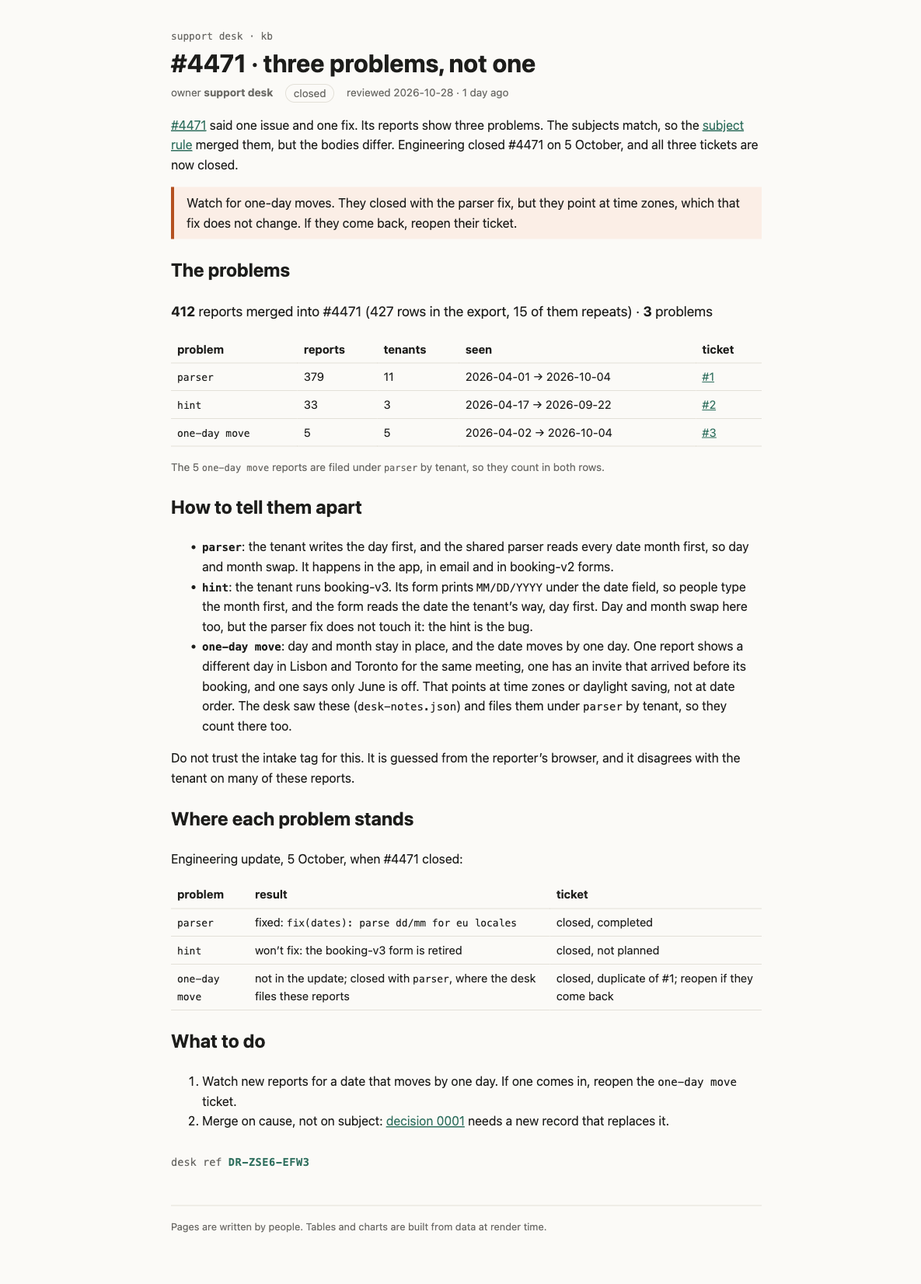
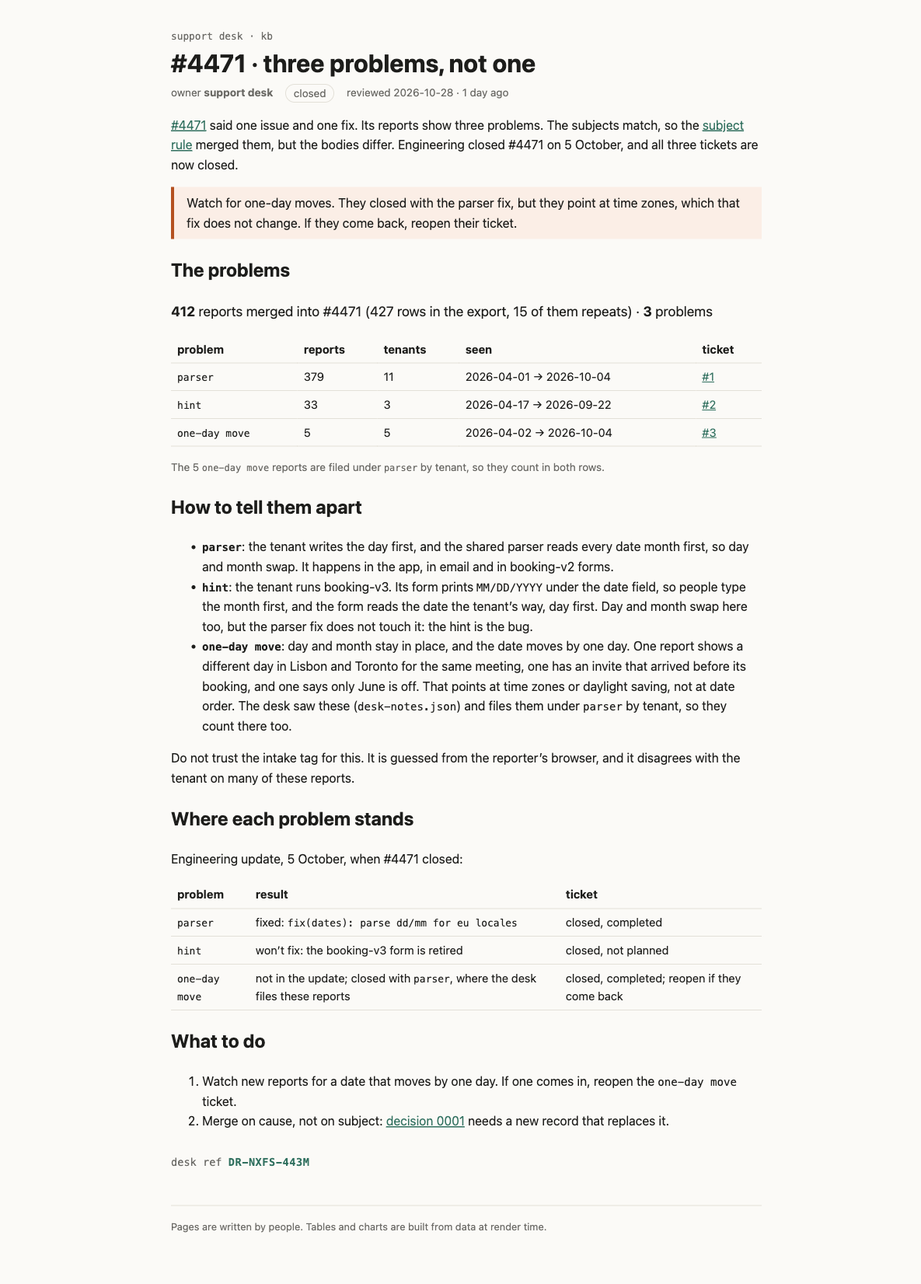
Sign the page with the course ticket

Changed region(s): [[0.281, 0.6792, 0.562, 0.8027], [0.5932, 0.6792, 0.8118, 0.8027], [0.3122, 0.8953, 0.3435, 0.9262]]

diff --git a/rendered/site/_app/immutable/chunks/D8PjzvQu.js b/rendered/site/_app/immutable/chunks/D8PjzvQu.js
@@ -1,0 +1,11 @@
+import{t as e}from"./DK3Fl9T5.js";import{E as t,F as n,H as r,I as i,K as a,L as o,N as s,O as c,R as l,S as u,T as d,U as f,W as p,_ as m,c as h,h as g,k as _,n as v,q as y,r as b,t as x,w as S}from"./BCPXOG7W.js";import{t as C}from"./DZiXShyB.js";import{n as w,t as T}from"./CVBzP17p.js";import{i as E,l as D,r as O,t as k}from"./BIy4WKJS.js";var A=[`parser`,`hint`,`one-day move`,`unplaced`];function j(e,t,n){let r=E(e,t)??`unplaced`;return n.includes(e.id)?[r,`one-day move`]:[r]}function M(e,t,n,r){let i=D(e).filter(e=>e.mergedInto===t);return{merged:i,groups:A.map(e=>{let t=i.filter(t=>j(t,n(t),r).includes(e)),a=t.map(e=>e.receivedAt.slice(0,10)).sort();return{problem:e,reports:t,alsoIn:[...new Set(t.flatMap(e=>j(e,n(e),r)))].filter(t=>t!==e),tenants:new Set(t.map(e=>e.tenant)).size,firstSeen:a[0],lastSeen:a[a.length-1]}}).filter(e=>e.reports.length>0)}}var N=t(`<a> </a>`),P=t(`<tr><td><code> </code></td><td> </td><td> </td><td> </td><td><!></td></tr>`),F=t(`<p class="note svelte-1op6c6"> <code> </code> reports are filed under <code> </code> by tenant, so they count in both rows.</p>`),I=t(`<p class="sum svelte-1op6c6"><strong> </strong> <strong> </strong> problems</p> <table><thead><tr><th>problem</th><th>reports</th><th>tenants</th><th>seen</th><th>ticket</th></tr></thead><tbody></tbody></table> <!>`,1);function L(e,t){p(t,!0);let b=v(t,`tickets`,19,()=>({})),x=r(()=>M(w,t.ticket,O,T.oneDayMove)),C=w.length,E=e=>e.replace(/.*\/issues\//,`#`);var D=I(),k=i(D),A=n(k),j=o(A,!0),L=l(A),R=l(L),z=o(R,!0);a(),y(k);var B=l(k,2),V=l(n(B));g(V,21,()=>_(x).groups,e=>e.problem,(e,t)=>{var r=P(),i=n(r),a=n(i),d=o(a,!0);y(i);var f=l(i),p=o(f,!0),g=l(f),v=o(g,!0),x=l(g),C=o(x),w=l(x),T=n(w),D=e=>{var n=N(),r=o(n,!0);s(e=>{h(n,`href`,b()[_(t).problem]),u(r,e)},[()=>E(b()[_(t).problem])]),S(e,n)},O=e=>{var t=c(`none yet`);S(e,t)};m(T,e=>{b()[_(t).problem]?e(D):e(O,-1)}),y(w),y(r),s(()=>{u(d,_(t).problem),u(p,_(t).reports.length),u(v,_(t).tenants),u(C,`${_(t).firstSeen??``} → ${_(t).lastSeen??``}`)}),S(e,r)}),y(V),y(B);var H=l(B,2);g(H,17,()=>_(x).groups,e=>e.problem,(e,t)=>{var c=d(),f=i(c);g(f,16,()=>_(t).alsoIn,e=>e,(e,c)=>{let f=r(()=>_(t).reports.filter(e=>_(x).groups.find(e=>e.problem===c)?.reports.includes(e)).length);var p=d(),h=i(p),g=e=>{var r=F(),i=n(r),d=l(i),p=o(d,!0),m=l(d,2),h=o(m,!0);a(),y(r),s(()=>{u(i,`The ${_(f)??``} `),u(p,_(t).problem),u(h,c)}),S(e,r)};m(h,e=>{_(t).problem===`one-day move`&&e(g)}),S(e,p)}),S(e,c)}),s(()=>{u(j,_(x).merged.length),u(L,` reports merged into #${t.ticket??``} (${C??``} rows in the export, ${C-_(x).merged.length} of them repeats) · `),u(z,_(x).groups.length)}),S(e,D),f()}var R=`0123456789ABCDEFGHJKMNPQRSTVWXYZ`;function z(e,t){let n=t>>>0;for(let t=0;t<e.length;t++)n^=e.charCodeAt(t),n=Math.imul(n,16777619)>>>0;return n}function B(e){let t=e.trim(),n=z(t,2166136261),r=z(t,2654435769),i=BigInt(n)<<8n|BigInt(r&255),a=``;for(let e=0;e<8;e++)a=R[Number(i&31n)]+a,i>>=5n;return`DR-${a.slice(0,4)}-${a.slice(4)}`}var V=t(`<p class="stamp svelte-1280m42">desk ref <b class="svelte-1280m42"> </b></p>`),H=t(`<p class="stamp missing svelte-1280m42">no desk ref: this page isn't signed (no <code>signature</code> in its frontmatter)</p>`);function U(e,t){p(t,!0);let a=r(()=>t.signature?B(t.signature):null);var c=d(),h=i(c),g=e=>{var t=V(),r=l(n(t)),i=o(r,!0);y(t),s(()=>u(i,_(a))),S(e,t)},v=e=>{var t=H();S(e,t)};m(h,e=>{_(a)?e(g):e(v,-1)}),S(e,c),f()}var W=e({default:()=>$,metadata:()=>G}),G={layout:`runbook`,title:`#4471 · three problems, not one`,owner:`support desk`,status:`closed`,reviewed:`2026-10-28T00:00:00.000Z`,signature:`v1.eyJzdWIiOiIxMjY0IiwiYXVkIjoiY2hhbGxlbmdlOndoYXQtaXQtc2hvd3MiLCJpYXQiOjE3OTMyNDA4NjMsImV4cCI6MTc5MzMyNzI2M30.nQOeUUJNOGeJvF1z5ycj1iKOyH2s22RATAlWIqq-3lM`},{layout:K,title:q,owner:J,status:Y,reviewed:X,signature:Z}=G,Q=t(`<p><a href="/kb/incidents/4471">#4471</a> said one issue and one fix. Its reports show three problems. The
+subjects match, so the <a href="/kb/triage/dedupe">subject rule</a> merged them, but the bodies differ.
+Engineering closed #4471 on 5 October, and all three tickets are now closed.</p> <!> <h2>The problems</h2> <!> <h2>How to tell them apart</h2> <ul><li><strong><code>parser</code></strong>: the tenant writes the day first, and the shared parser reads every date month
+first, so day and month swap. It happens in the app, in email and in booking-v2 forms.</li> <li><strong><code>hint</code></strong>: the tenant runs booking-v3. Its form prints <code>MM/DD/YYYY</code> under the date field, so
+people type the month first, and the form reads the date the tenant’s way, day first. Day and
+month swap here too, but the parser fix does not touch it: the hint is the bug.</li> <li><strong><code>one-day move</code></strong>: day and month stay in place, and the date moves by one day. One report
+shows a different day in Lisbon and Toronto for the same meeting, one has an invite that
+arrived before its booking, and one says only June is off. That points at time zones or
+daylight saving, not at date order. The desk saw these
+(<code>desk-notes.json</code>) and files them under <code>parser</code> by tenant, so they count there too.</li></ul> <p>Do not trust the intake tag for this. It is guessed from the reporter’s browser, and
+it disagrees with the tenant on many of these reports.</p> <h2>Where each problem stands</h2> <p>Engineering update, 5 October, when #4471 closed:</p> <table><thead><tr><th>problem</th><th>result</th><th>ticket</th></tr></thead><tbody><tr><td><code>parser</code></td><td>fixed: <code>fix(dates): parse dd/mm for eu locales</code></td><td>closed, completed</td></tr><tr><td><code>hint</code></td><td>won’t fix: the booking-v3 form is retired</td><td>closed, not planned</td></tr><tr><td><code>one-day move</code></td><td>not in the update; closed with <code>parser</code>, where the desk files these reports</td><td>closed, completed; reopen if they come back</td></tr></tbody></table> <h2>What to do</h2> <ol><li>Watch new reports for a date that moves by one day. If one comes in, reopen the <code>one-day move</code> ticket.</li> <li>Merge on cause, not on subject: <a href="/kb/decisions/0001-dedupe-by-subject">decision 0001</a> needs a new record that replaces it.</li></ol> <!>`,1);function $(e,t){let n=x(t,[`children`,`$$slots`,`$$events`,`$$legacy`]),r={parser:`https://github.com/hd4ng/support-kb-4471/issues/1`,hint:`https://github.com/hd4ng/support-kb-4471/issues/2`,"one-day move":`https://github.com/hd4ng/support-kb-4471/issues/3`};C(e,b(()=>n,()=>G,{children:(e,t)=>{var n=Q(),o=l(i(n),2);k(o,{kind:`warn`,children:(e,t)=>{a();var n=c(`Watch for one-day moves. They closed with the parser fix, but they point at time zones, which that fix does not change. If they come back, reopen their ticket.`);S(e,n)},$$slots:{default:!0}});var s=l(o,4);L(s,{ticket:4471,get tickets(){return r}}),U(l(s,18),{get signature(){return Z}}),S(e,n)},$$slots:{default:!0}}))}export{$ as n,W as t};

diff --git a/rendered/problems.html b/rendered/problems.html
@@ -6,11 +6,11 @@
 		<link href="../../../_app/immutable/chunks/B2Ul7l_u.js" rel="modulepreload">
 		<link href="../../../_app/immutable/chunks/BCPXOG7W.js" rel="modulepreload">
 		<link href="../../../_app/immutable/chunks/Dh1V97Jm.js" rel="modulepreload">
-		<link href="../../../_app/immutable/entry/app.B5hx-1tA.js" rel="modulepreload">
+		<link href="../../../_app/immutable/entry/app.BqhGF1EF.js" rel="modulepreload">
 		<link href="../../../_app/immutable/nodes/0.C9KfiiPz.js" rel="modulepreload">
 		<link href="../../../_app/immutable/chunks/DK3Fl9T5.js" rel="modulepreload">
-		<link href="../../../_app/immutable/nodes/5.CmG21ZDs.js" rel="modulepreload">
-		<link href="../../../_app/immutable/chunks/EmqgVGvN.js" rel="modulepreload">
+		<link href="../../../_app/immutable/nodes/5.BDPCEGiR.js" rel="modulepreload">
+		<link href="../../../_app/immutable/chunks/D8PjzvQu.js" rel="modulepreload">
 		<link href="../../../_app/immutable/chunks/DZiXShyB.js" rel="modulepreload">
 		<link href="../../../_app/immutable/chunks/CVBzP17p.js" rel="modulepreload">
 		<link href="../../../_app/immutable/chunks/BIy4WKJS.js" rel="modulepreload">
@@ -28,20 +28,20 @@ shows a different day in Lisbon and Toronto for the same meeting, one has an inv
 arrived before its booking, and one says only June is off. That points at time zones or
 daylight saving, not at date order. The desk saw these
 (<code>desk-notes.json</code>) and files them under <code>parser</code> by tenant, so they count there too.</li></ul> <p>Do not trust the intake tag for this. It is guessed from the reporter’s browser, and
-it disagrees with the tenant on many of these reports.</p> <h2>Where each problem stands</h2> <p>Engineering update, 5 October, when #4471 closed:</p> <table><thead><tr><th>problem</th><th>result</th><th>ticket</th></tr></thead><tbody><tr><td><code>parser</code></td><td>fixed: <code>fix(dates): parse dd/mm for eu locales</code></td><td>closed, completed</td></tr><tr><td><code>hint</code></td><td>won’t fix: the booking-v3 form is retired</td><td>closed, not planned</td></tr><tr><td><code>one-day move</code></td><td>not in the update; closed with <code>parser</code>, where the desk files these reports</td><td>closed, duplicate of #1; reopen if they come back</td></tr></tbody></table> <h2>What to do</h2> <ol><li>Watch new reports for a date that moves by one day. If one comes in, reopen the <code>one-day move</code> ticket.</li> <li>Merge on cause, not on subject: <a href="/kb/decisions/0001-dedupe-by-subject">decision 0001</a> needs a new record that replaces it.</li></ol> <!--[0--><p class="stamp svelte-1280m42">desk ref <b class="svelte-1280m42">DR-ZSE6-EFW3</b></p><!--]--><!----><!----></main> <footer class="svelte-e2jw2j">Pages are written by people. Tables and charts are built from data at render time.</footer></div><!--]--><!--]--><!--]--><!----><!--]--><!--]--><!--]--><!----> <!--[-1--><!--]--><!--]-->
+it disagrees with the tenant on many of these reports.</p> <h2>Where each problem stands</h2> <p>Engineering update, 5 October, when #4471 closed:</p> <table><thead><tr><th>problem</th><th>result</th><th>ticket</th></tr></thead><tbody><tr><td><code>parser</code></td><td>fixed: <code>fix(dates): parse dd/mm for eu locales</code></td><td>closed, completed</td></tr><tr><td><code>hint</code></td><td>won’t fix: the booking-v3 form is retired</td><td>closed, not planned</td></tr><tr><td><code>one-day move</code></td><td>not in the update; closed with <code>parser</code>, where the desk files these reports</td><td>closed, completed; reopen if they come back</td></tr></tbody></table> <h2>What to do</h2> <ol><li>Watch new reports for a date that moves by one day. If one comes in, reopen the <code>one-day move</code> ticket.</li> <li>Merge on cause, not on subject: <a href="/kb/decisions/0001-dedupe-by-subject">decision 0001</a> needs a new record that replaces it.</li></ol> <!--[0--><p class="stamp svelte-1280m42">desk ref <b class="svelte-1280m42">DR-NXFS-443M</b></p><!--]--><!----><!----></main> <footer class="svelte-e2jw2j">Pages are written by people. Tables and charts are built from data at render time.</footer></div><!--]--><!--]--><!--]--><!----><!--]--><!--]--><!--]--><!----> <!--[-1--><!--]--><!--]-->
 			
 			<script>
 				{
-					__sveltekit_1k2jq9f = {
+					__sveltekit_kxe9o8 = {
 						base: new URL("../../..", location).pathname.slice(0, -1),
-						version: "1793239243878"
+						version: "1793240873902"
 					};
 
 					const element = document.currentScript.parentElement;
 
 					import("../../../_app/immutable/entry/start.CH5w6lId.js").then(async (kit) => {
-						kit.init(__sveltekit_1k2jq9f);
-						const app = await import("../../../_app/immutable/entry/app.B5hx-1tA.js");
+						kit.init(__sveltekit_kxe9o8);
+						const app = await import("../../../_app/immutable/entry/app.BqhGF1EF.js");
 						kit.start(app, element, {
 							node_ids: [0, 5],
 							data: [null,null],

diff --git a/rendered/site/kb/incidents/4471/problems.html b/rendered/site/kb/incidents/4471/problems.html
@@ -6,11 +6,11 @@
 		<link href="../../../_app/immutable/chunks/B2Ul7l_u.js" rel="modulepreload">
 		<link href="../../../_app/immutable/chunks/BCPXOG7W.js" rel="modulepreload">
 		<link href="../../../_app/immutable/chunks/Dh1V97Jm.js" rel="modulepreload">
-		<link href="../../../_app/immutable/entry/app.B5hx-1tA.js" rel="modulepreload">
+		<link href="../../../_app/immutable/entry/app.BqhGF1EF.js" rel="modulepreload">
 		<link href="../../../_app/immutable/nodes/0.C9KfiiPz.js" rel="modulepreload">
 		<link href="../../../_app/immutable/chunks/DK3Fl9T5.js" rel="modulepreload">
-		<link href="../../../_app/immutable/nodes/5.CmG21ZDs.js" rel="modulepreload">
-		<link href="../../../_app/immutable/chunks/EmqgVGvN.js" rel="modulepreload">
+		<link href="../../../_app/immutable/nodes/5.BDPCEGiR.js" rel="modulepreload">
+		<link href="../../../_app/immutable/chunks/D8PjzvQu.js" rel="modulepreload">
 		<link href="../../../_app/immutable/chunks/DZiXShyB.js" rel="modulepreload">
 		<link href="../../../_app/immutable/chunks/CVBzP17p.js" rel="modulepreload">
 		<link href="../../../_app/immutable/chunks/BIy4WKJS.js" rel="modulepreload">
@@ -28,20 +28,20 @@ shows a different day in Lisbon and Toronto for the same meeting, one has an inv
 arrived before its booking, and one says only June is off. That points at time zones or
 daylight saving, not at date order. The desk saw these
 (<code>desk-notes.json</code>) and files them under <code>parser</code> by tenant, so they count there too.</li></ul> <p>Do not trust the intake tag for this. It is guessed from the reporter’s browser, and
-it disagrees with the tenant on many of these reports.</p> <h2>Where each problem stands</h2> <p>Engineering update, 5 October, when #4471 closed:</p> <table><thead><tr><th>problem</th><th>result</th><th>ticket</th></tr></thead><tbody><tr><td><code>parser</code></td><td>fixed: <code>fix(dates): parse dd/mm for eu locales</code></td><td>closed, completed</td></tr><tr><td><code>hint</code></td><td>won’t fix: the booking-v3 form is retired</td><td>closed, not planned</td></tr><tr><td><code>one-day move</code></td><td>not in the update; closed with <code>parser</code>, where the desk files these reports</td><td>closed, duplicate of #1; reopen if they come back</td></tr></tbody></table> <h2>What to do</h2> <ol><li>Watch new reports for a date that moves by one day. If one comes in, reopen the <code>one-day move</code> ticket.</li> <li>Merge on cause, not on subject: <a href="/kb/decisions/0001-dedupe-by-subject">decision 0001</a> needs a new record that replaces it.</li></ol> <!--[0--><p class="stamp svelte-1280m42">desk ref <b class="svelte-1280m42">DR-ZSE6-EFW3</b></p><!--]--><!----><!----></main> <footer class="svelte-e2jw2j">Pages are written by people. Tables and charts are built from data at render time.</footer></div><!--]--><!--]--><!--]--><!----><!--]--><!--]--><!--]--><!----> <!--[-1--><!--]--><!--]-->
+it disagrees with the tenant on many of these reports.</p> <h2>Where each problem stands</h2> <p>Engineering update, 5 October, when #4471 closed:</p> <table><thead><tr><th>problem</th><th>result</th><th>ticket</th></tr></thead><tbody><tr><td><code>parser</code></td><td>fixed: <code>fix(dates): parse dd/mm for eu locales</code></td><td>closed, completed</td></tr><tr><td><code>hint</code></td><td>won’t fix: the booking-v3 form is retired</td><td>closed, not planned</td></tr><tr><td><code>one-day move</code></td><td>not in the update; closed with <code>parser</code>, where the desk files these reports</td><td>closed, completed; reopen if they come back</td></tr></tbody></table> <h2>What to do</h2> <ol><li>Watch new reports for a date that moves by one day. If one comes in, reopen the <code>one-day move</code> ticket.</li> <li>Merge on cause, not on subject: <a href="/kb/decisions/0001-dedupe-by-subject">decision 0001</a> needs a new record that replaces it.</li></ol> <!--[0--><p class="stamp svelte-1280m42">desk ref <b class="svelte-1280m42">DR-NXFS-443M</b></p><!--]--><!----><!----></main> <footer class="svelte-e2jw2j">Pages are written by people. Tables and charts are built from data at render time.</footer></div><!--]--><!--]--><!--]--><!----><!--]--><!--]--><!--]--><!----> <!--[-1--><!--]--><!--]-->
 			
 			<script>
 				{
-					__sveltekit_1k2jq9f = {
+					__sveltekit_kxe9o8 = {
 						base: new URL("../../..", location).pathname.slice(0, -1),
-						version: "1793239243878"
+						version: "1793240873902"
 					};
 
 					const element = document.currentScript.parentElement;
 
 					import("../../../_app/immutable/entry/start.CH5w6lId.js").then(async (kit) => {
-						kit.init(__sveltekit_1k2jq9f);
-						const app = await import("../../../_app/immutable/entry/app.B5hx-1tA.js");
+						kit.init(__sveltekit_kxe9o8);
+						const app = await import("../../../_app/immutable/entry/app.BqhGF1EF.js");
 						kit.start(app, element, {
 							node_ids: [0, 5],
 							data: [null,null],

diff --git a/rendered/site/_app/immutable/nodes/2.0jS1Y7ee.js b/rendered/site/_app/immutable/nodes/2.0jS1Y7ee.js
@@ -1,0 +1,2 @@
+import{E as e,F as t,I as n,K as r,L as i,N as a,R as o,S as s,U as c,W as l,c as u,d,h as f,i as p,k as m,q as h,r as g,t as _,w as v}from"../chunks/BCPXOG7W.js";import{n as y,r as b,t as x}from"../chunks/DZiXShyB.js";import{t as S}from"../chunks/DdxO9zAB.js";import{t as C}from"../chunks/DGwczjly.js";import{t as w}from"../chunks/D8PjzvQu.js";import{t as T}from"../chunks/C3NdmfwS.js";var E=e(`<tr><td><a> </a></td><td> </td><td> </td><td> </td></tr>`),D=e(`<table><thead><tr><th>page</th><th>owner</th><th>status</th><th>reviewed</th></tr></thead><tbody></tbody></table>`);function O(e,n){l(n,!1);let r=Object.entries(Object.assign({"/src/routes/kb/decisions/0001-dedupe-by-subject/+page.svx":S,"/src/routes/kb/incidents/4471/+page.svx":C,"/src/routes/kb/incidents/4471/problems/+page.svx":w,"/src/routes/kb/triage/dedupe/+page.svx":T})).map(([e,t])=>({href:e.replace(`/src/routes`,``).replace(`/+page.svx`,``),...t.metadata})).sort((e,t)=>e.href.localeCompare(t.href));p();var g=D(),_=o(t(g));f(_,5,()=>r,e=>e.href,(e,n)=>{var r=E(),c=t(r),l=t(c),f=i(l,!0);h(c);var p=o(c),g=i(p,!0),_=o(p),x=i(_,!0),S=o(_);let C;var w=i(S,!0);h(r),a((e,t)=>{u(l,`href`,m(n).href),s(f,m(n).title),s(g,m(n).owner),s(x,m(n).status),C=d(S,1,`svelte-tbc1ha`,null,C,{stale:e}),s(w,t)},[()=>y(m(n).reviewed)>180,()=>b(m(n).reviewed)]),v(e,r)}),h(_),h(g),v(e,g),c()}var k={layout:`runbook`,title:`Support knowledge base`,owner:`support desk`,status:`living`,reviewed:`2026-09-28T00:00:00.000Z`},{layout:A,title:j,owner:M,status:N,reviewed:P}=k,F=e(`<p>What the support desk knows, kept next to the code that knows it. One desk, every product: <code>sched-prod</code> (calendar invites for about 300k people) and the rest. When something breaks, the reports land here first.</p> <p>Start with <a href="/kb/triage/dedupe">triage</a> if you are new on the desk.</p> <h2>Pages</h2> <!> <h2>Writing a page</h2> <p>Keep the words here and the logic in <code>src/lib</code>. A number that can be computed should be
+computed by a component, not typed into a paragraph.</p>`,1);function I(e,t){let i=_(t,[`children`,`$$slots`,`$$events`,`$$legacy`]);x(e,g(()=>i,()=>k,{children:(e,t)=>{var i=F();O(o(n(i),6),{}),r(4),v(e,i)},$$slots:{default:!0}}))}export{I as component};

diff --git a/rendered/site/kb.html b/rendered/site/kb.html
@@ -6,16 +6,16 @@
 		<link href="./_app/immutable/chunks/B2Ul7l_u.js" rel="modulepreload">
 		<link href="./_app/immutable/chunks/BCPXOG7W.js" rel="modulepreload">
 		<link href="./_app/immutable/chunks/Dh1V97Jm.js" rel="modulepreload">
-		<link href="./_app/immutable/entry/app.B5hx-1tA.js" rel="modulepreload">
+		<link href="./_app/immutable/entry/app.BqhGF1EF.js" rel="modulepreload">
 		<link href="./_app/immutable/nodes/0.C9KfiiPz.js" rel="modulepreload">
 		<link href="./_app/immutable/chunks/DK3Fl9T5.js" rel="modulepreload">
-		<link href="./_app/immutable/nodes/2.B3XDgzku.js" rel="modulepreload">
+		<link href="./_app/immutable/nodes/2.0jS1Y7ee.js" rel="modulepreload">
 		<link href="./_app/immutable/chunks/DZiXShyB.js" rel="modulepreload">
 		<link href="./_app/immutable/chunks/DdxO9zAB.js" rel="modulepreload">
 		<link href="./_app/immutable/chunks/DGwczjly.js" rel="modulepreload">
 		<link href="./_app/immutable/chunks/CVBzP17p.js" rel="modulepreload">
 		<link href="./_app/immutable/chunks/BIy4WKJS.js" rel="modulepreload">
-		<link href="./_app/immutable/chunks/EmqgVGvN.js" rel="modulepreload">
+		<link href="./_app/immutable/chunks/D8PjzvQu.js" rel="modulepreload">
 		<link href="./_app/immutable/chunks/C3NdmfwS.js" rel="modulepreload">
 		<!--e2jw2j--><!----><title>Support knowledge base · support kb</title>
 		<link href="./_app/immutable/assets/runbook.COyw0cbZ.css" rel="stylesheet">
@@ -29,16 +29,16 @@ computed by a component, not typed into a paragraph.</p><!----></main> <footer c
 			
 			<script>
 				{
-					__sveltekit_1k2jq9f = {
+					__sveltekit_kxe9o8 = {
 						base: new URL(".", location).pathname.slice(0, -1),
-						version: "1793239243878"
+						version: "1793240873902"
 					};
 
 					const element = document.currentScript.parentElement;
 
 					import("./_app/immutable/entry/start.CH5w6lId.js").then(async (kit) => {
-						kit.init(__sveltekit_1k2jq9f);
-						const app = await import("./_app/immutable/entry/app.B5hx-1tA.js");
+						kit.init(__sveltekit_kxe9o8);
+						const app = await import("./_app/immutable/entry/app.BqhGF1EF.js");
 						kit.start(app, element, {
 							node_ids: [0, 2],
 							data: [null,null],

diff --git a/rendered/site/_app/immutable/entry/app.BqhGF1EF.js b/rendered/site/_app/immutable/entry/app.BqhGF1EF.js
@@ -1,0 +1,2 @@
+const __vite__mapDeps=(i,m=__vite__mapDeps,d=(m.f||(m.f=["../nodes/0.C9KfiiPz.js","../chunks/DK3Fl9T5.js","../chunks/BCPXOG7W.js","../nodes/1.mOwa9YdW.js","../chunks/Dh1V97Jm.js","./payload.DSmR2FwN.js","../nodes/2.0jS1Y7ee.js","../chunks/DZiXShyB.js","../assets/runbook.COyw0cbZ.css","../chunks/DdxO9zAB.js","../chunks/DGwczjly.js","../chunks/CVBzP17p.js","../chunks/BIy4WKJS.js","../assets/Callout.AbLv9dM_.css","../assets/_page.D56XP2ro.css","../chunks/D8PjzvQu.js","../assets/_page.l10rmzXo.css","../chunks/C3NdmfwS.js","../assets/_page.DO6Yid7X.css","../assets/2.Bt0MwIZg.css","../nodes/3.CwVaGuXT.js","../nodes/4.BSByaEO3.js","../nodes/5.BDPCEGiR.js","../nodes/6.BEk1f0Tf.js"])))=>i.map(i=>d[i]);
+import{t as e}from"../chunks/CRzLMJPS.js";var t={},n=[()=>e(()=>import(`../nodes/0.C9KfiiPz.js`),__vite__mapDeps([0,1,2]),import.meta.url),()=>e(()=>import(`../nodes/1.mOwa9YdW.js`),__vite__mapDeps([3,2,4,5]),import.meta.url),()=>e(()=>import(`../nodes/2.0jS1Y7ee.js`),__vite__mapDeps([6,2,7,8,9,1,10,11,12,13,14,15,16,17,18,19]),import.meta.url),()=>e(()=>import(`../nodes/3.CwVaGuXT.js`),__vite__mapDeps([20,9,1,2,7,8]),import.meta.url),()=>e(()=>import(`../nodes/4.BSByaEO3.js`),__vite__mapDeps([21,10,1,2,7,8,11,12,13,14]),import.meta.url),()=>e(()=>import(`../nodes/5.BDPCEGiR.js`),__vite__mapDeps([22,15,1,2,7,8,11,12,13,16]),import.meta.url),()=>e(()=>import(`../nodes/6.BEk1f0Tf.js`),__vite__mapDeps([23,17,1,2,7,8,12,13,18]),import.meta.url)],r=[],i={"/kb":[2],"/kb/decisions/0001-dedupe-by-subject":[3],"/kb/incidents/4471":[4],"/kb/incidents/4471/problems":[5],"/kb/triage/dedupe":[6]},a={handleError:(({kind:e,error:t})=>{e===`unknown`&&console.error(t)}),reroute:(()=>{}),transport:{}},o=Object.fromEntries(Object.entries(a.transport).map(([e,t])=>[e,t.decode])),s=Object.fromEntries(Object.entries(a.transport).map(([e,t])=>[e,t.encode])),c=!1,l=(e,t)=>o[e](t),u=()=>e(()=>import(`../chunks/Bjy-W4x2.js`).then(e=>e.default),[],import.meta.url);export{l as decode,o as decoders,i as dictionary,s as encoders,u as get_error_template,c as hash,a as hooks,t as matchers,n as nodes,r as server_loads};

diff --git a/rendered/site/kb/decisions/0001-dedupe-by-subject.html b/rendered/site/kb/decisions/0001-dedupe-by-subject.html
@@ -6,7 +6,7 @@
 		<link href="../../_app/immutable/chunks/B2Ul7l_u.js" rel="modulepreload">
 		<link href="../../_app/immutable/chunks/BCPXOG7W.js" rel="modulepreload">
 		<link href="../../_app/immutable/chunks/Dh1V97Jm.js" rel="modulepreload">
-		<link href="../../_app/immutable/entry/app.B5hx-1tA.js" rel="modulepreload">
+		<link href="../../_app/immutable/entry/app.BqhGF1EF.js" rel="modulepreload">
 		<link href="../../_app/immutable/nodes/0.C9KfiiPz.js" rel="modulepreload">
 		<link href="../../_app/immutable/chunks/DK3Fl9T5.js" rel="modulepreload">
 		<link href="../../_app/immutable/nodes/3.CwVaGuXT.js" rel="modulepreload">
@@ -21,16 +21,16 @@ engineering merges them later.</li></ul><!----></main> <footer class="svelte-e2j
 			
 			<script>
 				{
-					__sveltekit_1k2jq9f = {
+					__sveltekit_kxe9o8 = {
 						base: new URL("../..", location).pathname.slice(0, -1),
-						version: "1793239243878"
+						version: "1793240873902"
 					};
 
 					const element = document.currentScript.parentElement;
 
 					import("../../_app/immutable/entry/start.CH5w6lId.js").then(async (kit) => {
-						kit.init(__sveltekit_1k2jq9f);
-						const app = await import("../../_app/immutable/entry/app.B5hx-1tA.js");
+						kit.init(__sveltekit_kxe9o8);
+						const app = await import("../../_app/immutable/entry/app.BqhGF1EF.js");
 						kit.start(app, element, {
 							node_ids: [0, 3],
 							data: [null,null],

diff --git a/rendered/site/kb/incidents/4471.html b/rendered/site/kb/incidents/4471.html
@@ -6,7 +6,7 @@
 		<link href="../../_app/immutable/chunks/B2Ul7l_u.js" rel="modulepreload">
 		<link href="../../_app/immutable/chunks/BCPXOG7W.js" rel="modulepreload">
 		<link href="../../_app/immutable/chunks/Dh1V97Jm.js" rel="modulepreload">
-		<link href="../../_app/immutable/entry/app.B5hx-1tA.js" rel="modulepreload">
+		<link href="../../_app/immutable/entry/app.BqhGF1EF.js" rel="modulepreload">
 		<link href="../../_app/immutable/nodes/0.C9KfiiPz.js" rel="modulepreload">
 		<link href="../../_app/immutable/chunks/DK3Fl9T5.js" rel="modulepreload">
 		<link href="../../_app/immutable/nodes/4.BSByaEO3.js" rel="modulepreload">
@@ -24,16 +24,16 @@ first. The fix is queued.</p> <aside class="note svelte-17bri61"><!---->Known. O
 			
 			<script>
 				{
-					__sveltekit_1k2jq9f = {
+					__sveltekit_kxe9o8 = {
 						base: new URL("../..", location).pathname.slice(0, -1),
-						version: "1793239243878"
+						version: "1793240873902"
 					};
 
 					const element = document.currentScript.parentElement;
 
 					import("../../_app/immutable/entry/start.CH5w6lId.js").then(async (kit) => {
-						kit.init(__sveltekit_1k2jq9f);
-						const app = await import("../../_app/immutable/entry/app.B5hx-1tA.js");
+						kit.init(__sveltekit_kxe9o8);
+						const app = await import("../../_app/immutable/entry/app.BqhGF1EF.js");
 						kit.start(app, element, {
 							node_ids: [0, 4],
 							data: [null,null],

diff --git a/rendered/site/kb/triage/dedupe.html b/rendered/site/kb/triage/dedupe.html
@@ -6,7 +6,7 @@
 		<link href="../../_app/immutable/chunks/B2Ul7l_u.js" rel="modulepreload">
 		<link href="../../_app/immutable/chunks/BCPXOG7W.js" rel="modulepreload">
 		<link href="../../_app/immutable/chunks/Dh1V97Jm.js" rel="modulepreload">
-		<link href="../../_app/immutable/entry/app.B5hx-1tA.js" rel="modulepreload">
+		<link href="../../_app/immutable/entry/app.BqhGF1EF.js" rel="modulepreload">
 		<link href="../../_app/immutable/nodes/0.C9KfiiPz.js" rel="modulepreload">
 		<link href="../../_app/immutable/chunks/DK3Fl9T5.js" rel="modulepreload">
 		<link href="../../_app/immutable/nodes/6.BEk1f0Tf.js" rel="modulepreload">
@@ -24,16 +24,16 @@ anything else.<!----></aside><!----> <h2>Try it</h2> <div class="try svelte-gq0h
 			
 			<script>
 				{
-					__sveltekit_1k2jq9f = {
+					__sveltekit_kxe9o8 = {
 						base: new URL("../..", location).pathname.slice(0, -1),
-						version: "1793239243878"
+						version: "1793240873902"
 					};
 
 					const element = document.currentScript.parentElement;
 
 					import("../../_app/immutable/entry/start.CH5w6lId.js").then(async (kit) => {
-						kit.init(__sveltekit_1k2jq9f);
-						const app = await import("../../_app/immutable/entry/app.B5hx-1tA.js");
+						kit.init(__sveltekit_kxe9o8);
+						const app = await import("../../_app/immutable/entry/app.BqhGF1EF.js");
 						kit.start(app, element, {
 							node_ids: [0, 6],
 							data: [null,null],

diff --git a/rendered/site/_app/immutable/nodes/5.BDPCEGiR.js b/rendered/site/_app/immutable/nodes/5.BDPCEGiR.js
@@ -1,0 +1,1 @@
+export{n as component}from"../chunks/D8PjzvQu.js";

diff --git a/README.md b/README.md
@@ -39,7 +39,7 @@ Exported 2026-10-04 from the `support` repo, `apps/kb/` → `src/`.
 
 ## #4471, split (added 2026-10-28)
 
-- Page: [`src/routes/kb/incidents/4471/problems/+page.svx`](src/routes/kb/incidents/4471/problems/+page.svx), signed, desk ref `DR-ZSE6-EFW3`.
+- Page: [`src/routes/kb/incidents/4471/problems/+page.svx`](src/routes/kb/incidents/4471/problems/+page.svx), signed, desk ref `DR-NXFS-443M`.
 - Counts come from [`src/lib/kb/problems.ts`](src/lib/kb/problems.ts) and [`ProblemTable.svelte`](src/lib/kb/ProblemTable.svelte).
 - The page as the desk sees it: [`rendered/problems.png`](rendered/problems.png), [`rendered/problems.html`](rendered/problems.html), and the whole built kb in [`rendered/site/`](rendered/site/).
 - Tickets: [#1 parser, 379 reports](../../issues/1) · [#2 hint, 33 reports](../../issues/2) · [#3 one-day move, 5 reports](../../issues/3).
